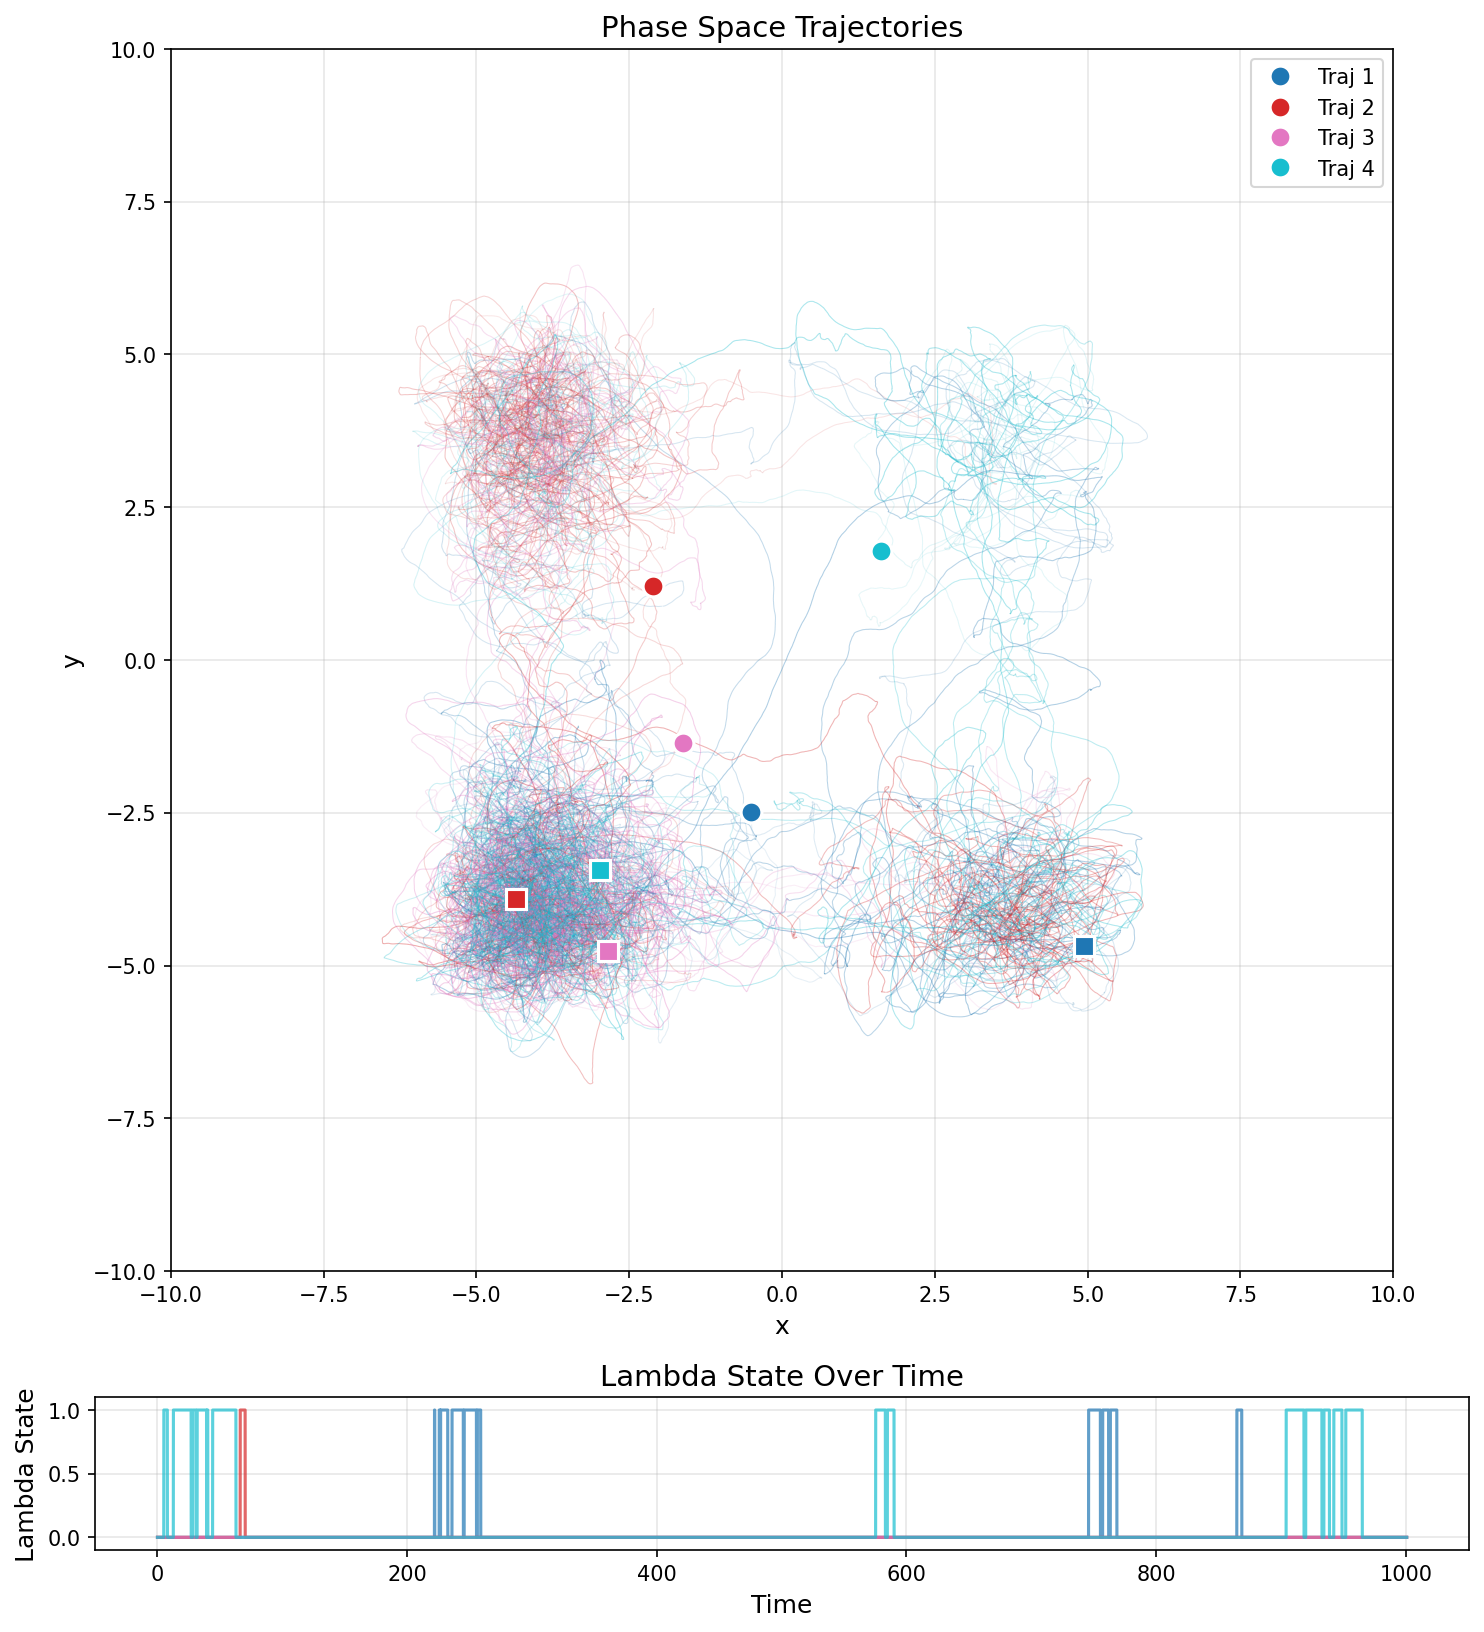
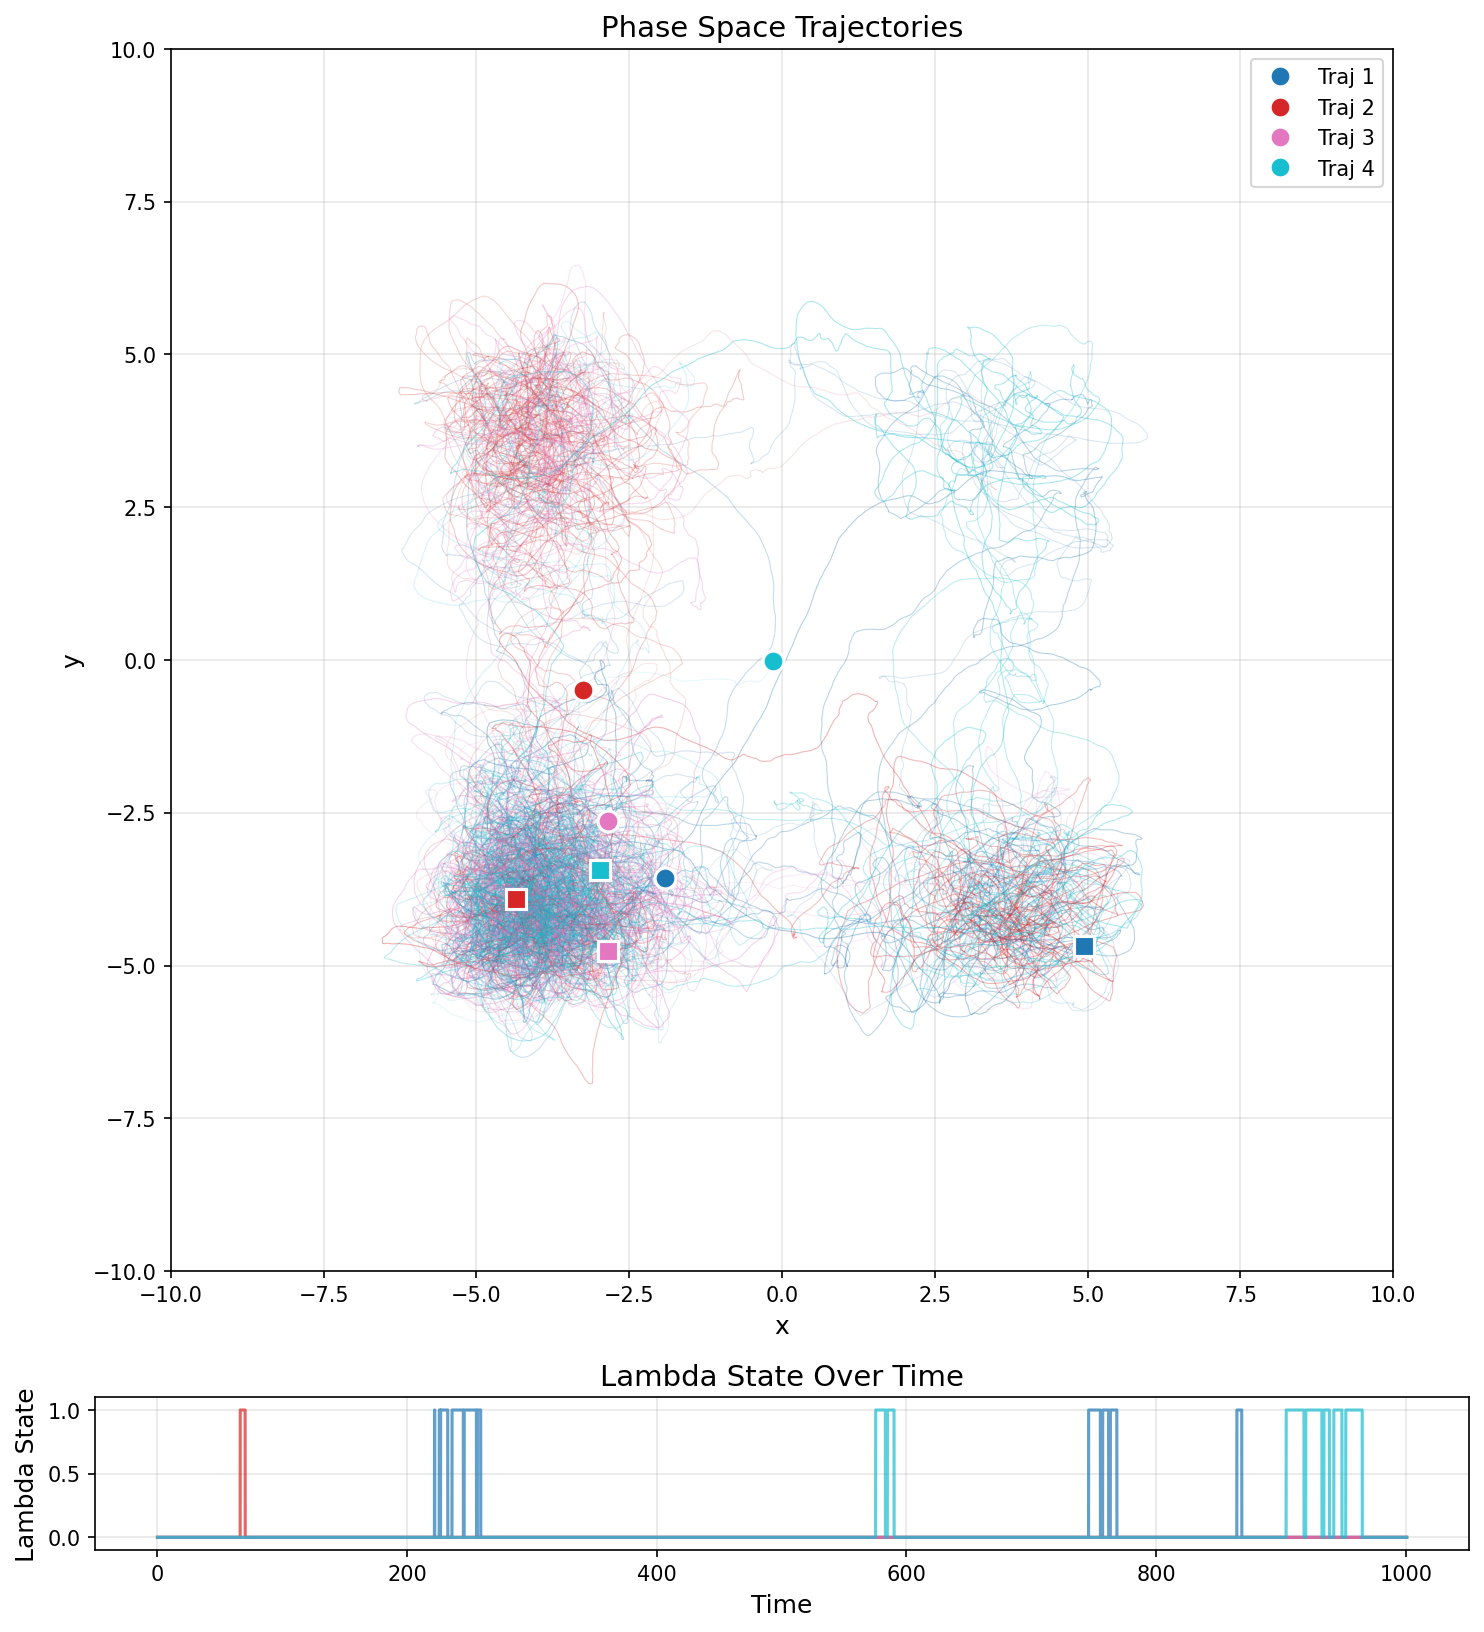
tinkering with policy

diff --git a/src/tinydynamics/core/dynamics.py b/src/tinydynamics/core/dynamics.py
@@ -1,6 +1,7 @@
 from tinydynamics.core.state import State
 from tinydynamics.core.potentials import general_well_potential
 from tinydynamics.core.state import simple_lambda
+from tinydynamics.core.policy import policy_forward, Policy
 
 import jax
 import jax.numpy as jnp
@@ -11,12 +12,15 @@ def newtonian_dynamics(
     dt: float,
     n_steps: int,
     mass: float,
+    policy: Policy,
     a: float = 1.0,
     b: float = 3.0,
     c: float = 10.0,
 ):
     # lambda to skip the passing of a, b, c to the gradient function
-    grad_potential = jax.grad(lambda x: general_well_potential(x, a, b, c))
+    def system_potential(x: jnp.ndarray) -> jnp.ndarray:
+        general_well_potential(x, a, b, c) + policy_forward(x, policy)
+    grad_potential = jax.grad(system_potential)
 
     # one step of the dynamics
     def step(state: State, _: None) -> State:
@@ -39,12 +43,15 @@ def langevin_dynamics(
     mass: float,
     gamma: float,
     temperature: float,
+    policy: Policy,
     kB: float = 1.0,
     a: float = 1.0,
     b: float = 3.0,
     c: float = 10.0,
 ):
-    grad_potential = jax.grad(lambda x: general_well_potential(x, a, b, c))
+    def system_potential(x: jnp.ndarray) -> jnp.ndarray:
+        general_well_potential(x, a, b, c) + policy_forward(x, policy)
+    grad_potential = jax.grad(system_potential)
     sigma = jnp.sqrt(2.0 * gamma * kB * temperature) / mass
 
     # one step of the dynamics

diff --git a/src/tinydynamics/core/policy.py b/src/tinydynamics/core/policy.py
@@ -1,0 +1,24 @@
+from typing import NamedTuple
+import jax
+import jax.numpy as jnp
+
+
+class Policy(NamedTuple):
+    params: tuple[dict, ...] # variadic tuple type
+
+def initialize_policy(key: jax.Array, layer_sizes: list[int]) -> Policy:
+    layers = []
+    for i in range(len(layer_sizes) - 1):
+        key, k1, k2 = jax.random.split(key, 3)
+        n_in, n_out = layer_sizes[i], layer_sizes[i + 1]
+        W = jax.random.normal(k1, (n_in, n_out)) * jnp.sqrt(2.0 / n_in)
+        b = jnp.zeros((n_out,))
+        layers.append(dict(W=W, b=b))
+    return Policy(params=tuple(layers))
+
+def policy_forward(x: jnp.ndarray, policy: Policy) -> jnp.ndarray:
+    for layer in policy.params[:-1]:
+        x = x @ layer["W"] + layer["b"]
+        x = jnp.tanh(x)
+    x = x @ policy.params[-1]["W"] + policy.params[-1]["b"]
+    return x.squeeze()

diff --git a/src/tinydynamics/core/state.py b/src/tinydynamics/core/state.py
@@ -17,7 +17,7 @@ def simple_lambda(x: jnp.ndarray, threshold: float = 2.0) -> bool: # we define l
 def initialize_state(D: int, key: jax.Array) -> State:
     key, kx, kv = jax.random.split(key, 3)
 
-    x = jax.random.uniform(kx, shape=(D), minval=-3.0, maxval=3.0)
+    x = jax.random.uniform(kx, shape=(D), minval=-4.0, maxval=1.0) # lambda = False
     v = jax.random.uniform(kv, shape=(D), minval=-0.1, maxval=0.1)
     l = simple_lambda(x) # starting state
     
